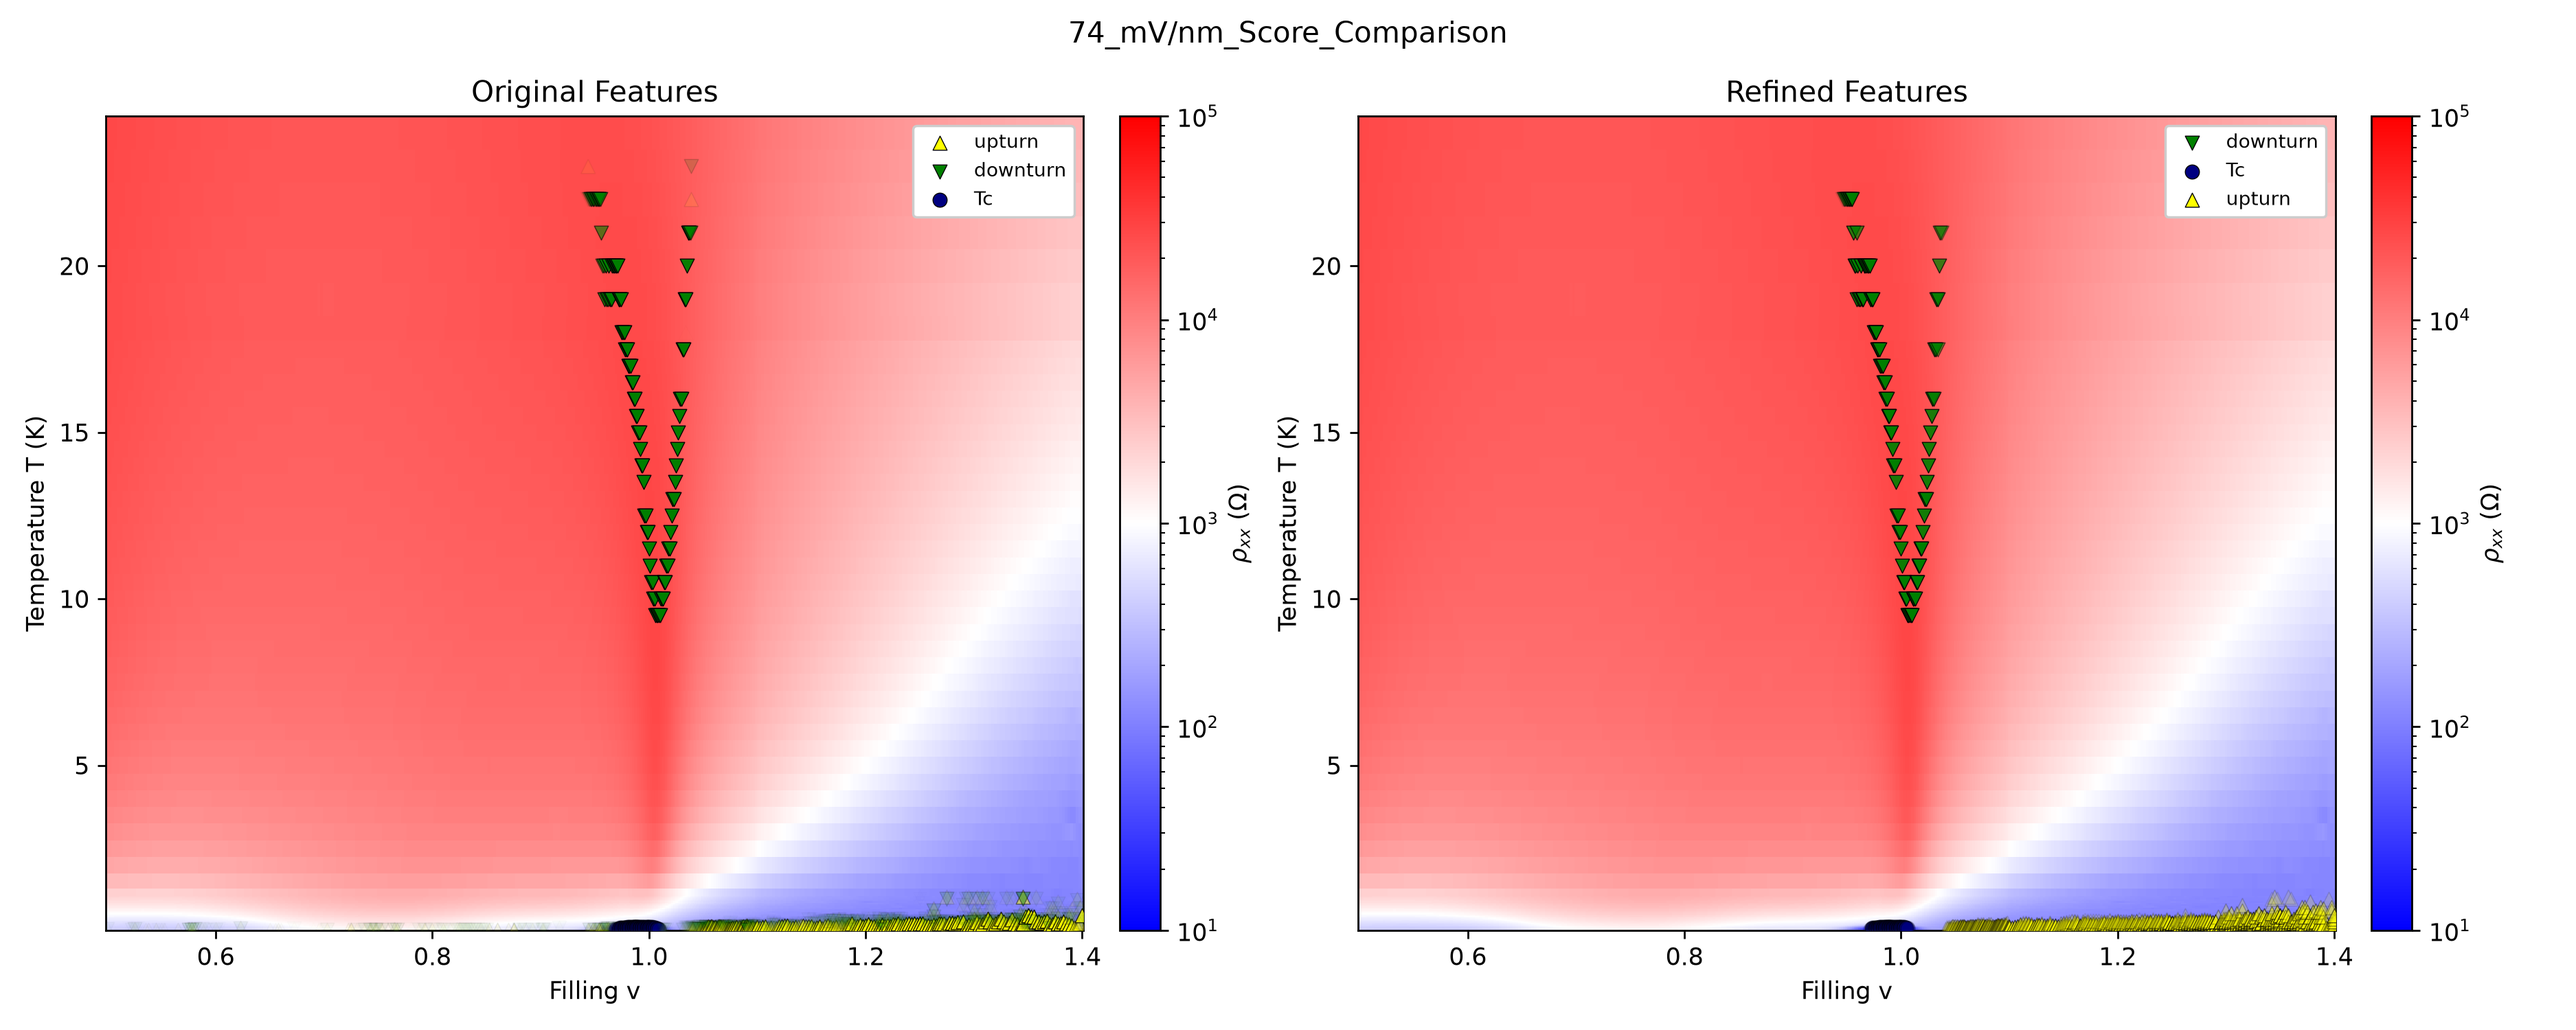
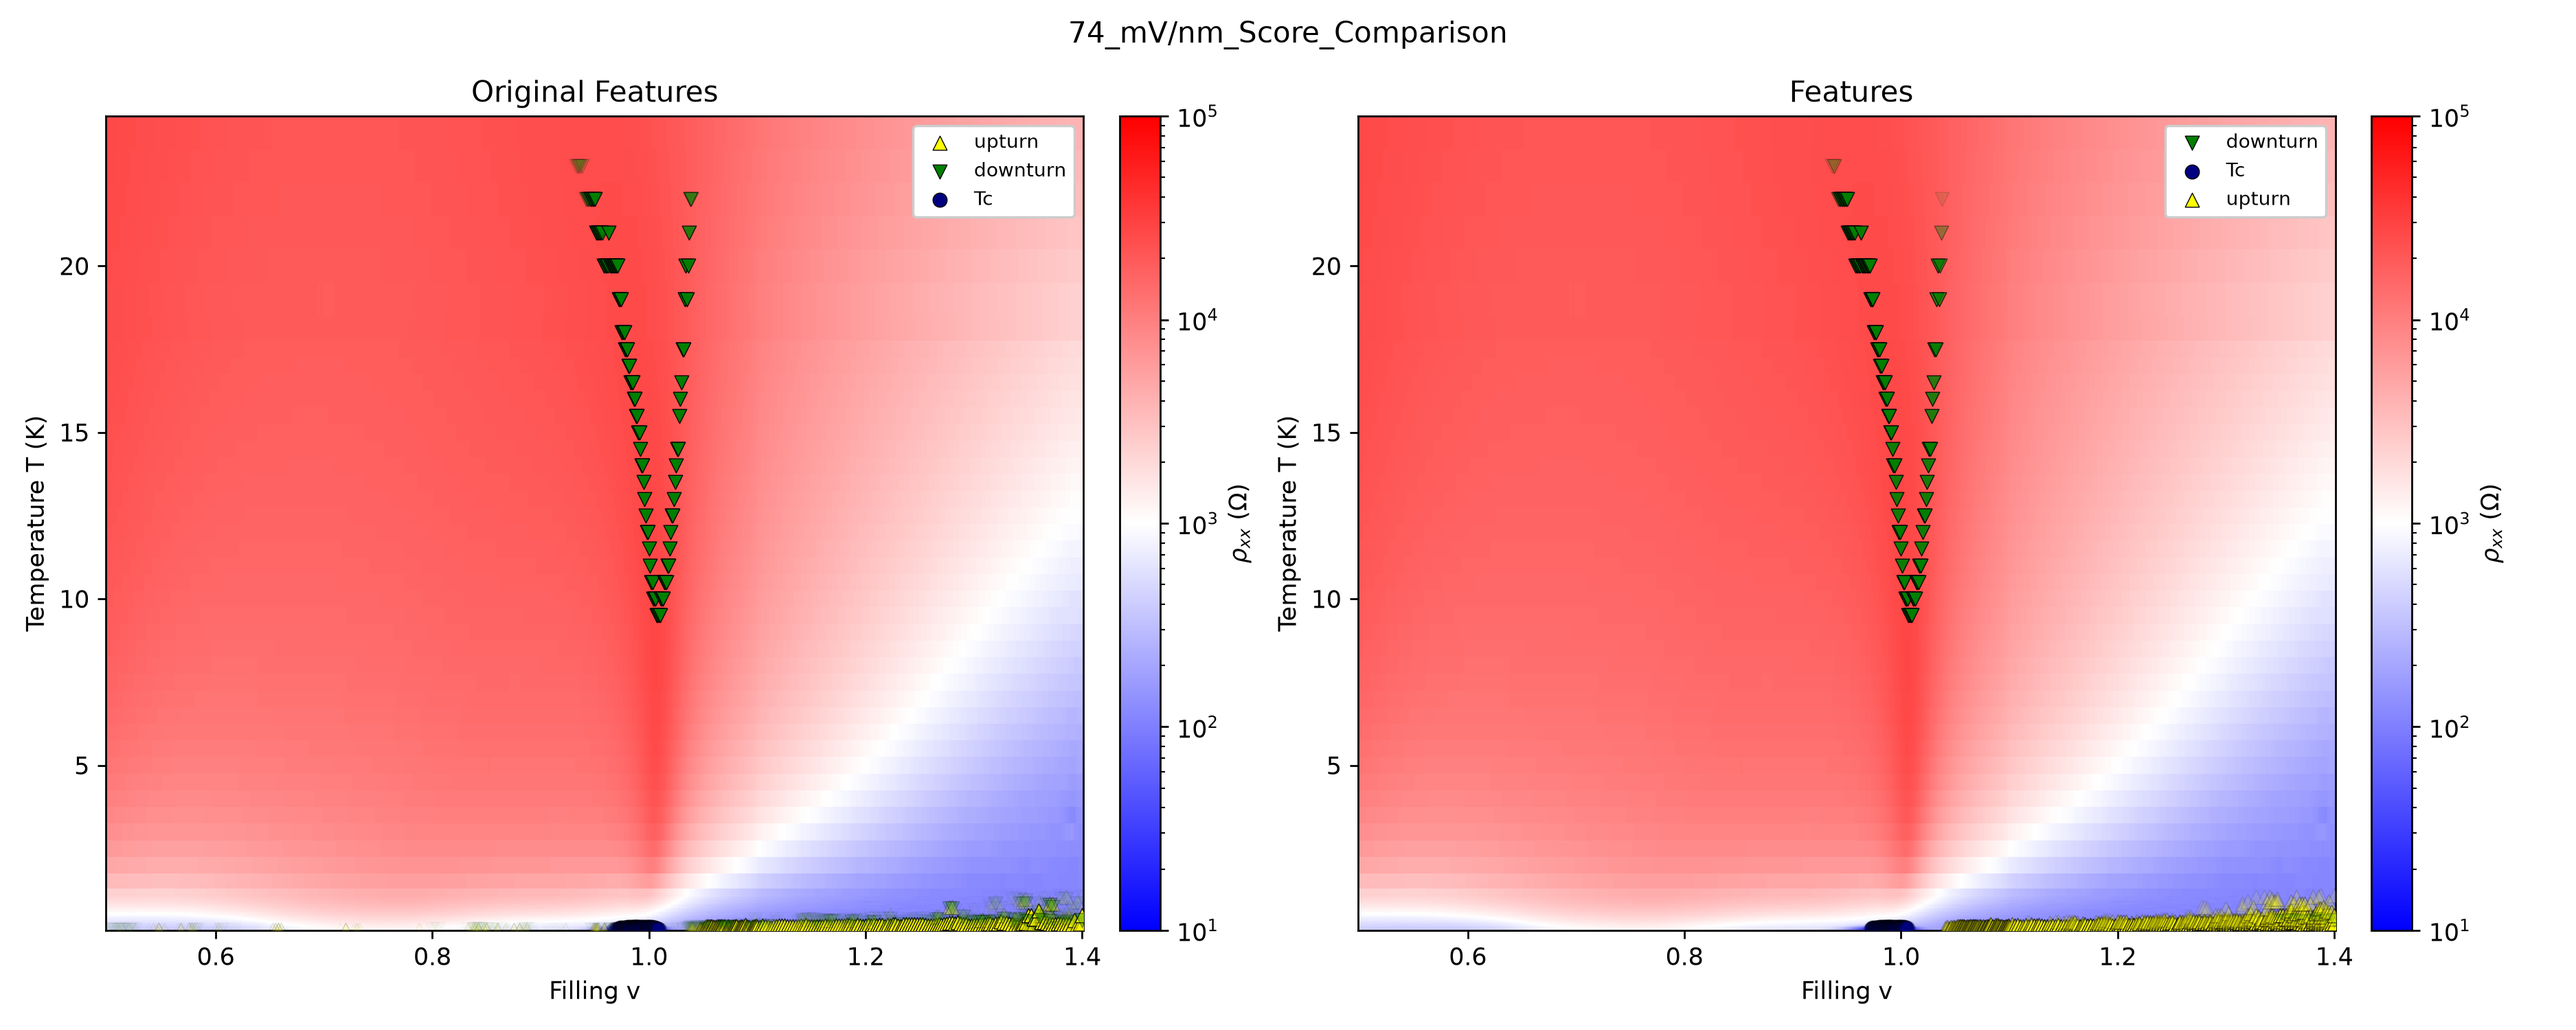
trying to debug an issue with original score not matching

diff --git a/scripts/generate_figures.py b/scripts/generate_figures.py
@@ -123,7 +123,7 @@ def draw_heatmaps():
         draw_heatmap(fig, axes[0], dataset["nu"], dataset["T"], dataset["rho"], title="Original Features")
         overlay_features_heatmap(axes[0], dataset["linecuts"], score_name="confidence")
 
-        draw_heatmap(fig, axes[1], dataset["nu"], dataset["T"], dataset["rho"], title="Refined Features")
+        draw_heatmap(fig, axes[1], dataset["nu"], dataset["T"], dataset["rho"], title=" Features")
         overlay_features_heatmap(axes[1], dataset["linecuts"], feature_name="features_new", score_name="score_15")
 
         path = OUT / Path("heatmaps_comparison")
@@ -131,4 +131,4 @@ def draw_heatmaps():
         fig.savefig(path / Path(str(dataset["E"]) + ".png"))
 
 if __name__ == "__main__":
-    draw_linecuts()
+    draw_heatmaps()
